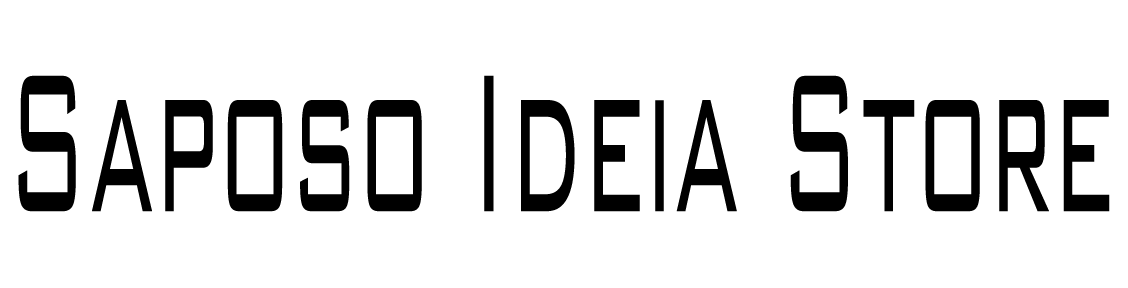
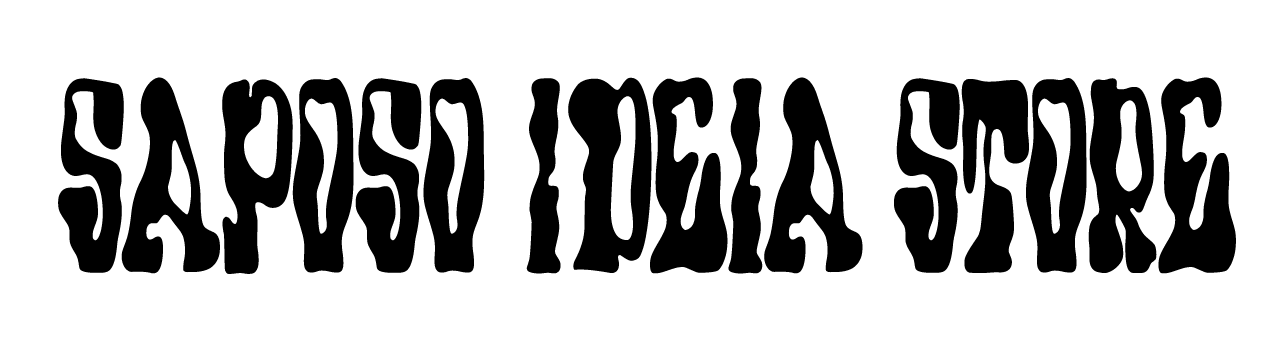
acho que terminei os ajustes de design que queria fazer na entrada do site. Agora vamos partir pra a sessão de usuário ligada à api

Changed region(s): [[0.0, 0.2188, 0.9929, 0.8125]]

diff --git a/src/layout/ProductsDisplay/NewestProducts.tsx b/src/layout/ProductsDisplay/NewestProducts.tsx
@@ -13,7 +13,6 @@ import { Swiper as SwiperInstance } from 'swiper/types';
 
 import '../../styles/swiper.css';
 
-
 export default function NewestProducts () {
   const [products, setProducts] = useState<Product[]>([]);
   const { theme } = useTheme()
@@ -67,25 +66,25 @@ export default function NewestProducts () {
 
   
   return (
-    <div id='caixa completa relative, pra poder faazer as caixas transbordando a caixa' 
+    <div id='caixa completa relative, pra poder fazer as caixas transbordando a caixa' 
     className='relative w-full h-full'>
       <div id='caixa completa' 
-      className={` bg-black border  p-1 overflow-hidden rounded font-mono text-[17px] w-full h-full
+      className={` bg-black border shadow-md p-1 overflow-hidden rounded font-mono text-[17px] w-full h-full
       ${theme === 'dark' ? 'bg-black/30 border-slate-400 text-neutral-200' 
-      : 'bg-white/30 text-black border-zinc-800'}`}>
+      : 'bg-slate-100/90 text-black border-zinc-500'}`}>
 
         <div id='novidades.novelties.nouvelles' 
-          className={`absolute z-50 bottom-0 right-0 -m-2 mr-3 mt-3 h-7 ml-1 flex items-center rounded px-4 py-4 text-[2.3vw] transition-colors duration-300 
-          ${theme === 'dark' ? ' bg-zinc-900/50 border border-emerald-100' 
-          : 'bg-zinc-100 text-stone-900 border border-black'} `}>
+          className={`absolute shadow z-50 bottom-0 right-0 -m-2 mr-3 mt-3 h-7 ml-1 flex items-center rounded px-3 py-4 text-[2.3vw] transition-colors duration-300 
+          ${theme === 'dark' ? ' bg-zinc-900/70 border border-emerald-100' 
+          : 'bg-zinc-100 text-stone-900 border border-zinc-700'} `}>
               <div className="font-bold tracking-widest">novidades</div><div>.novelties.nouvelles</div>
             
         </div>
 
         <Link id='botão lista completa' to={'/products'} 
-        className={`absolute z-50 top-0 right-0 justify-self-end px-3 pr-2 pt-1 pb-1 rounded border-b-2 border-l border-stone-400 transition-colors duration-300 tracking-tight hover:underline
+        className={` absolute shadow z-50 top-0 right-0 justify-self-end px-3 pr-2 pt-1 pb-1 rounded border border-stone-400 transition-colors duration-300 tracking-tight hover:underline
             ${theme === 'dark' ? '' 
-            : ''} `}>
+            : 'bg-neutral-100'} `}>
           lista completa</Link>
 
           <Swiper
@@ -93,7 +92,7 @@ export default function NewestProducts () {
             spaceBetween={10}
             centeredSlides={true}
             autoplay={{
-              delay: 2500,
+              delay: 10000,
               disableOnInteraction: false,
               pauseOnMouseEnter: true,
             }}
@@ -114,12 +113,12 @@ export default function NewestProducts () {
                       
                       <img id='imagem produto' className='object-contain max-h-full rounded-lg col-span-1 row-span-3 justify-self-center -ml-16 flex items-center' src={product.imageUrl} alt={product.name} />
                       <div id='nome, descrição' className='col-span-1 row-span-2' >
-                        <div className='text-5xl'>{product.name}</div>
-                        <p>{truncateDescription(product.description, 16)}</p>
+                        <div className='text-[2.5rem]'>{product.name}</div>
+                        <p className='leading-none '>{truncateDescription(product.description, 16)}</p>
                       </div>
                       <div id='price' className='text-2xl mt-2'>{product.price}</div>
-                      <div id='ver mais' className='col-start-2 flex items-end'>
-                        <div className='underline'><Link to={`/product/${product.id}`}>ver mais</Link></div>
+                      <div id='botao ver mais' className='col-start-2 flex items-end hover:underline mb-7 text-[15px]'>
+                        <Link to={`/product/${product.id}`} className=' border-black'>ver mais</Link>
                       </div>
 
                     </div>

diff --git a/src/pages/home/index.tsx b/src/pages/home/index.tsx
@@ -28,32 +28,33 @@ export default function Home() {
       <div id='background' 
       className={` min-h-[550px] min-w-[600px] w-full flex flex-col gap-5 items-center justify-center bg-gradient-to-b 
       ${theme === 'dark' ? 'from-bgdarkpurple to-bgdarkblue/80 to-70% text-neutral-200' 
-      : 'from-gray-200 via-emerald-100 to-gray-400 text-stone-900'}  `}>
+      : 'from-emerald-300 via-gray-100 via-[6%] to-white to-100% text-stone-900'}  `}>
         
         <div id="grande caixa que contém a grade" className="mt-48  gap-5 grid grid-cols-3 justify-items-center items-start w-11/12 h-5/6 min-h-[800px]">
 
           <div id="novidades" className="col-span-3 w-full h-40 "><NewestProducts/></div>
 
-          <div id="conteiner boas vindas" className="flex flex-col justify-center w-full h-full col-span-2 row-span-5 rounded">
-            <div className="text-7xl text-black p-4">
-              <img src="assets/saposoideiastore.png"></img>
+          <div id="texto grande SAPOSO IDEIA STORE" className="flex flex-col justify-start w-full h-full col-span-2 row-span-5 mt-32">
+            <div className="-mx-2 -ml-10">
+              {theme === 'dark' ? <img src='assets/saposoideiastore2.png'></img> 
+              : <img src='assets/saposoideiastore.png'></img>}
             </div>
           </div>          
           
           <div className="relative">
             <div id="caixa mais vendidos" 
-            className={` flex font-mono text-xl justify-center border row-span-5 w-full h-full rounded mt-14 py-5
+            className={` flex font-mono text-xl shadow-md justify-center border row-span-5 w-full h-full rounded mt-14 py-5
             ${theme === 'dark' ? 'bg-black/30  border-slate-400' 
-            : 'bg-white/30 border-zinc-800'} `}>
+            : 'bg-white/30 border-zinc-500'} `}>
               
-              <div id="mais vendidos texto superior" 
+              <div id="caixinha mais vendidos superior" 
                 className={`absolute z-50 right-8 -mt-7 flex items-center rounded px-4 h-6 transition-colors duration-300 
-                ${theme === 'dark' ? ' bg-black/50 border border-emerald-100' 
+                ${theme === 'dark' ? ' bg-black/70 border border-emerald-100' 
                 : 'bg-zinc-100  border border-black'} `}>
                 mais vendidos</div>
-              <div id="mais vendidos texto inferior" 
+              <div id="caixinha mais vendidos inferior" 
                 className={`absolute z-50 right-8 bottom-0 -mb-3 flex items-center rounded px-4 h-6 transition-colors duration-300 
-                ${theme === 'dark' ? ' bg-zinc-900/50 border border-emerald-100' 
+                ${theme === 'dark' ? ' bg-zinc-900/70 border border-emerald-100' 
                 : 'bg-zinc-100  border border-black'} `}>
                 mais vendidos</div>
 

diff --git a/src/layout/ProductsDisplay/ProductDisplay.tsx b/src/layout/ProductsDisplay/ProductDisplay.tsx
@@ -2,6 +2,7 @@ import React, { useEffect, useState } from "react";
 import { useNavigate } from "react-router-dom";
 import axiosClient from "../../api/axiosClient";
 import { Product } from "../../types/Product";
+import { useTheme } from "../../context/useTheme";
 
 
 
@@ -11,6 +12,7 @@ interface ProductDisplayProps {
 
 const ProductDisplay: React.FC<ProductDisplayProps> = ({ productId }) => {
   const [product, setProduct] = useState<Product | null>(null);
+  const { theme } = useTheme()
 
   useEffect(() => {
     axiosClient.get(`/api/products/${ productId }`)
@@ -44,14 +46,23 @@ const ProductDisplay: React.FC<ProductDisplayProps> = ({ productId }) => {
   };
 
   return (
-    <div className="col-span-1 bg-slate-100/90 border-2 border-lime-400 to-slate-500/80 text-black shadow-md rounded flex h-20 gap-2 pl-2 py-[2px]">
+    <div id="caixa" className={`col-span-1  border-x-2 border-b-2 to-slate-500/80 text-black shadow-md rounded flex h-20 gap-2 pl-2 py-[2px]
+    ${theme === 'dark' ? 'bg-black/30 border-slate-400 text-neutral-200 border-t' 
+    : 'border-slate-300 bg-slate-100/90'}`}>
       <div className="rounded basis-1/5 flex items-center justify-center"><img id='img produto' className="py-1 object-scale-down max-w-full max-h-full basis-1/4 rounded-md" src={product.imageUrl}></img></div>
       <div className="px-1 basis-3/6 h-full grid text-sm ">
         <p className="text-md font-bold ">{product.name}</p>
-        <p className="text-[9px] italic leading-tight">{truncateDescription(product.description, 13)}</p>
-        <p className="mb-1 font-semibold flex items-end ">R$ {product.price}</p>
+        <p className="text-[10px] italic leading-tight">{truncateDescription(product.description, 13)}</p>
       </div>
-      <div className="basis-2/6 mr-1 flex items-end mb-1 text-xs"><button onClick={() => redirect()} className="bg-gray-800 rounded-md px-2 py-1 text-white mx-auto shadow-lg ">Ver produto</button></div>
+      <div className="basis-2/6 flex flex-col items-end justify-between text-xs">
+        
+        <p id="preço" className="mt-2 mr-3 font-semibold flex"><div className="w-20">R$ {product.price}</div></p>
+        
+        <button id="botão ver mais" onClick={() => redirect()} 
+        className={` rounded px-1 py-1 shadow-lg hover:underline
+        ${theme === 'dark' ? 'bg-slate-500/50 text-white ' 
+        : ' text-black bg-slate-200'}`}>ver mais</button></div>
+    
     </div>
   );
 };

diff --git a/src/layout/components/Navbar/index.tsx b/src/layout/components/Navbar/index.tsx
@@ -138,7 +138,9 @@ export default function Navbar() {
         : 'bg-violet-800/70 hover:bg-violet-800/90 text-emerald-100  shadow shadow-black'}`}>
             <div id="imagem" 
             className="w-[23px] mr-1 ml-2 my-1">
-            {theme === 'dark' ? <img src='/assets/themeicon.png'></img> : <img src='/assets/themeicon2.png'></img>}
+            {theme === 'dark' ? 
+              <img src='/assets/themeicon.png'></img> 
+              : <img src='/assets/themeicon2.png'></img>}
             </div>
         </button>
         
